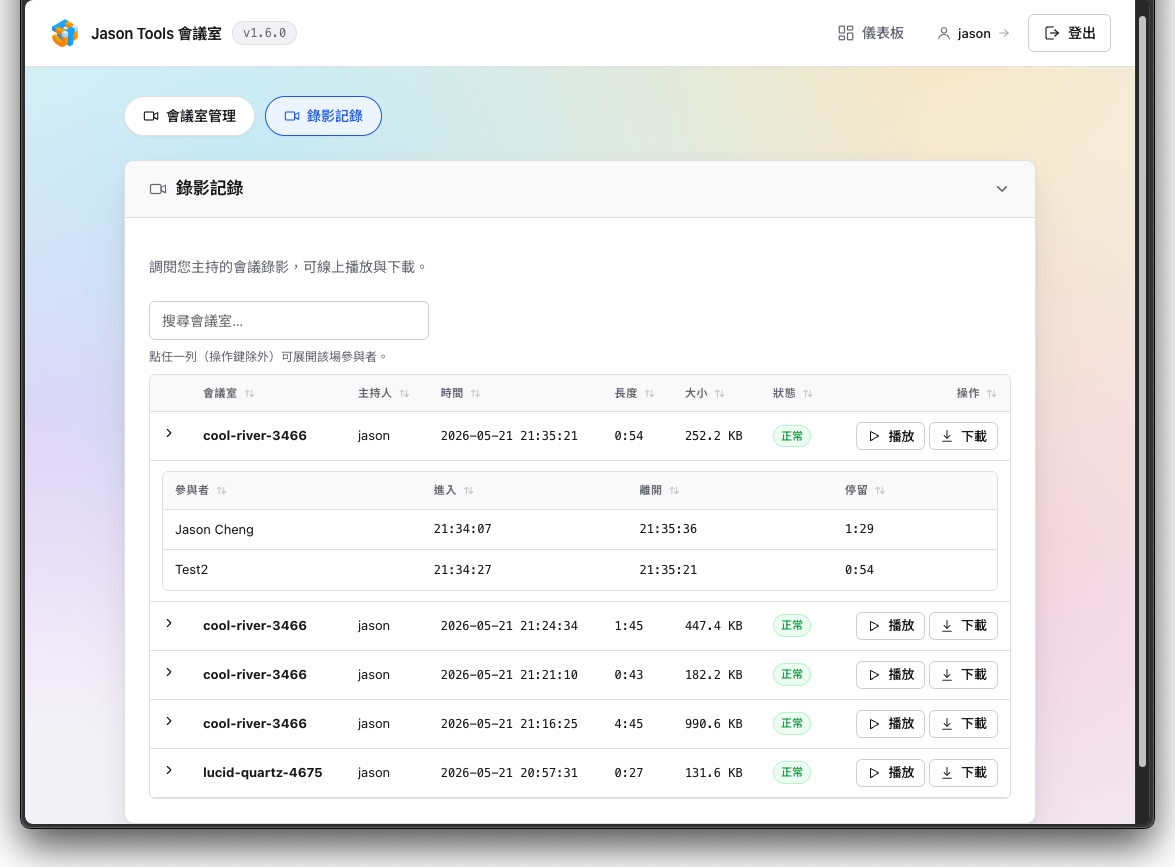
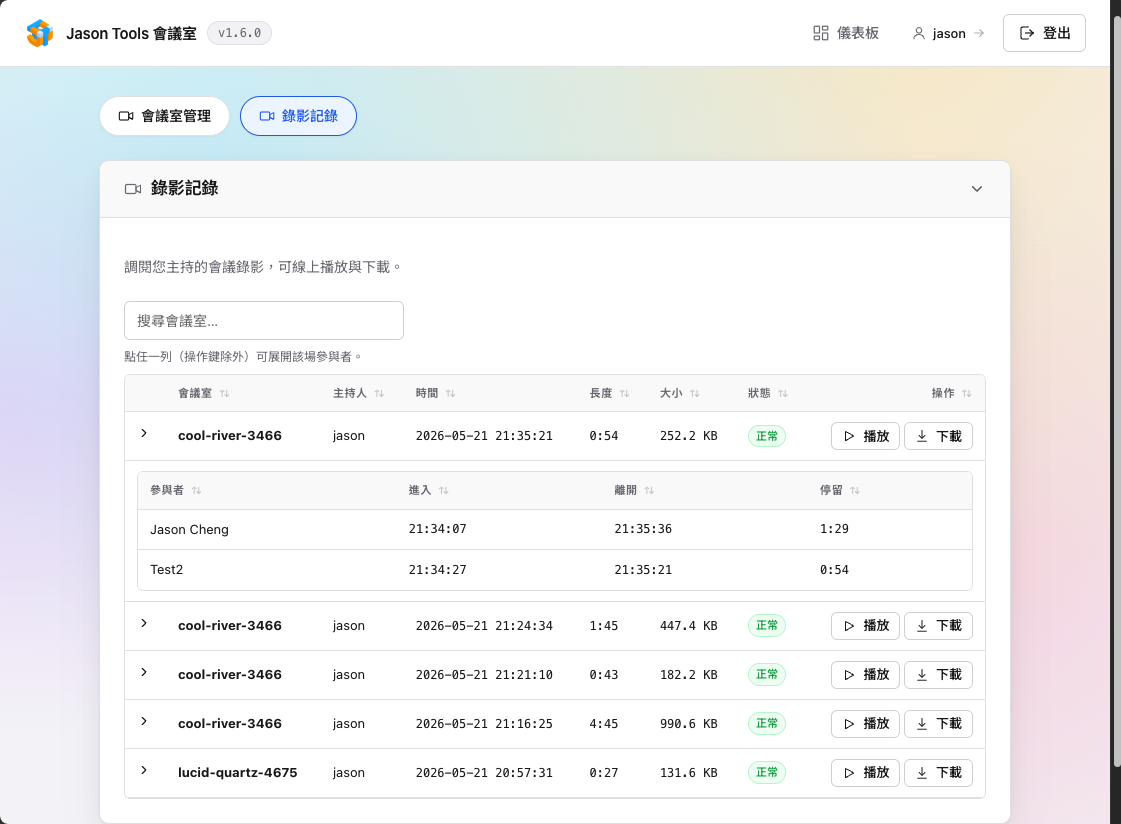
docs(pages): 截圖改裁四邊框(取頁面亮區 bbox)；#10 更正為「會議室自訂」；3 張截圖說明文字加長

diff --git a/docs/index.html b/docs/index.html
@@ -220,15 +220,15 @@
       </div>
       <div class="sc-row">
         <figure class="shot sc-shot"><div class="frame"><img src="images/09-recordings.png" alt="錄影記錄" loading="lazy" onerror="this.style.display='none';this.parentElement.classList.add('empty')"></div></figure>
-        <div class="sc-text"><span class="num">09</span><h3>錄影記錄</h3><p>串接自建 Jibri 主機的錄影服務：線上列表 / 播放 / 下載 / 刪除、錄影主機容量與保留政策；點任一列可展開該場參與者進出明細。主持人可調閱自己主持會議的錄影。</p></div>
+        <div class="sc-text"><span class="num">09</span><h3>錄影記錄</h3><p>調閱自建 Jibri 主機產出的會議錄影：線上播放、下載、刪除，並顯示錄影主機磁碟容量與每筆的大小、長度、狀態。可依<strong>會議室 / 主持人 / 參與者</strong>搜尋，點任一列展開該場的參與者進出時間軸。權限分明——主持人只看自己主持會議的錄影，管理者可管全部；保留政策（依時間 / 容量 / 殘留檔自動清理）也在此一目了然。</p></div>
       </div>
       <div class="sc-row">
-        <figure class="shot sc-shot"><div class="frame"><img src="images/10-room-customize.png" alt="建立 / 進入會議室" loading="lazy" onerror="this.style.display='none';this.parentElement.classList.add('empty')"></div></figure>
-        <div class="sc-text"><span class="num">10</span><h3>建立 / 進入會議室</h3><p>輸入會議室名稱即可開始（非 ASCII 字元自動轉換），可設開放時段、寄送邀請、啟用大廳模式；也能先建立連結暫不進入。</p></div>
+        <figure class="shot sc-shot"><div class="frame"><img src="images/10-room-customize.png" alt="會議室自訂" loading="lazy" onerror="this.style.display='none';this.parentElement.classList.add('empty')"></div></figure>
+        <div class="sc-text"><span class="num">10</span><h3>會議室自訂</h3><p>自建 Jitsi Meet 模式專用的會議室介面客製：進入時是否靜音 / 關鏡頭、畫質上限、預設檢視（演講者 / 畫廊）、是否關閉「視訊省頻寬」自動降載，以及逐項勾選工具列要開放的功能（聊天、螢幕分享、舉手、錄影、虛擬背景、共享文件…）。所有設定都在進入會議時自動帶入 Jitsi，無需改動 Jitsi 設定檔。</p></div>
       </div>
       <div class="sc-row">
         <figure class="shot sc-shot"><div class="frame"><img src="images/11-settings-recording.png" alt="錄製設定" loading="lazy" onerror="this.style.display='none';this.parentElement.classList.add('empty')"></div></figure>
-        <div class="sc-text"><span class="num">11</span><h3>錄製設定</h3><p>錄製者顯示名稱、串接 Jibri 錄影服務（顯示已註冊錄製器數）、錄影保留政策（依時間 / 容量 / 殘留自動清理，預設停用）。</p></div>
+        <div class="sc-text"><span class="num">11</span><h3>錄製設定</h3><p>設定會議錄製者在與會者清單顯示的名稱，並串接自建 Jibri 主機的錄影調閱服務——填入服務 URL 與 token 後即顯示連線狀態與<strong>已註冊錄製器數</strong>，並附上增減錄製器的文件連結。錄影保留政策可依時間（保留 N 天）、容量（保留可用空間或總量上限）或殘留檔自動清理，<strong>預設全部停用</strong>以策安全。</p></div>
       </div>
     </div>
   </div>
